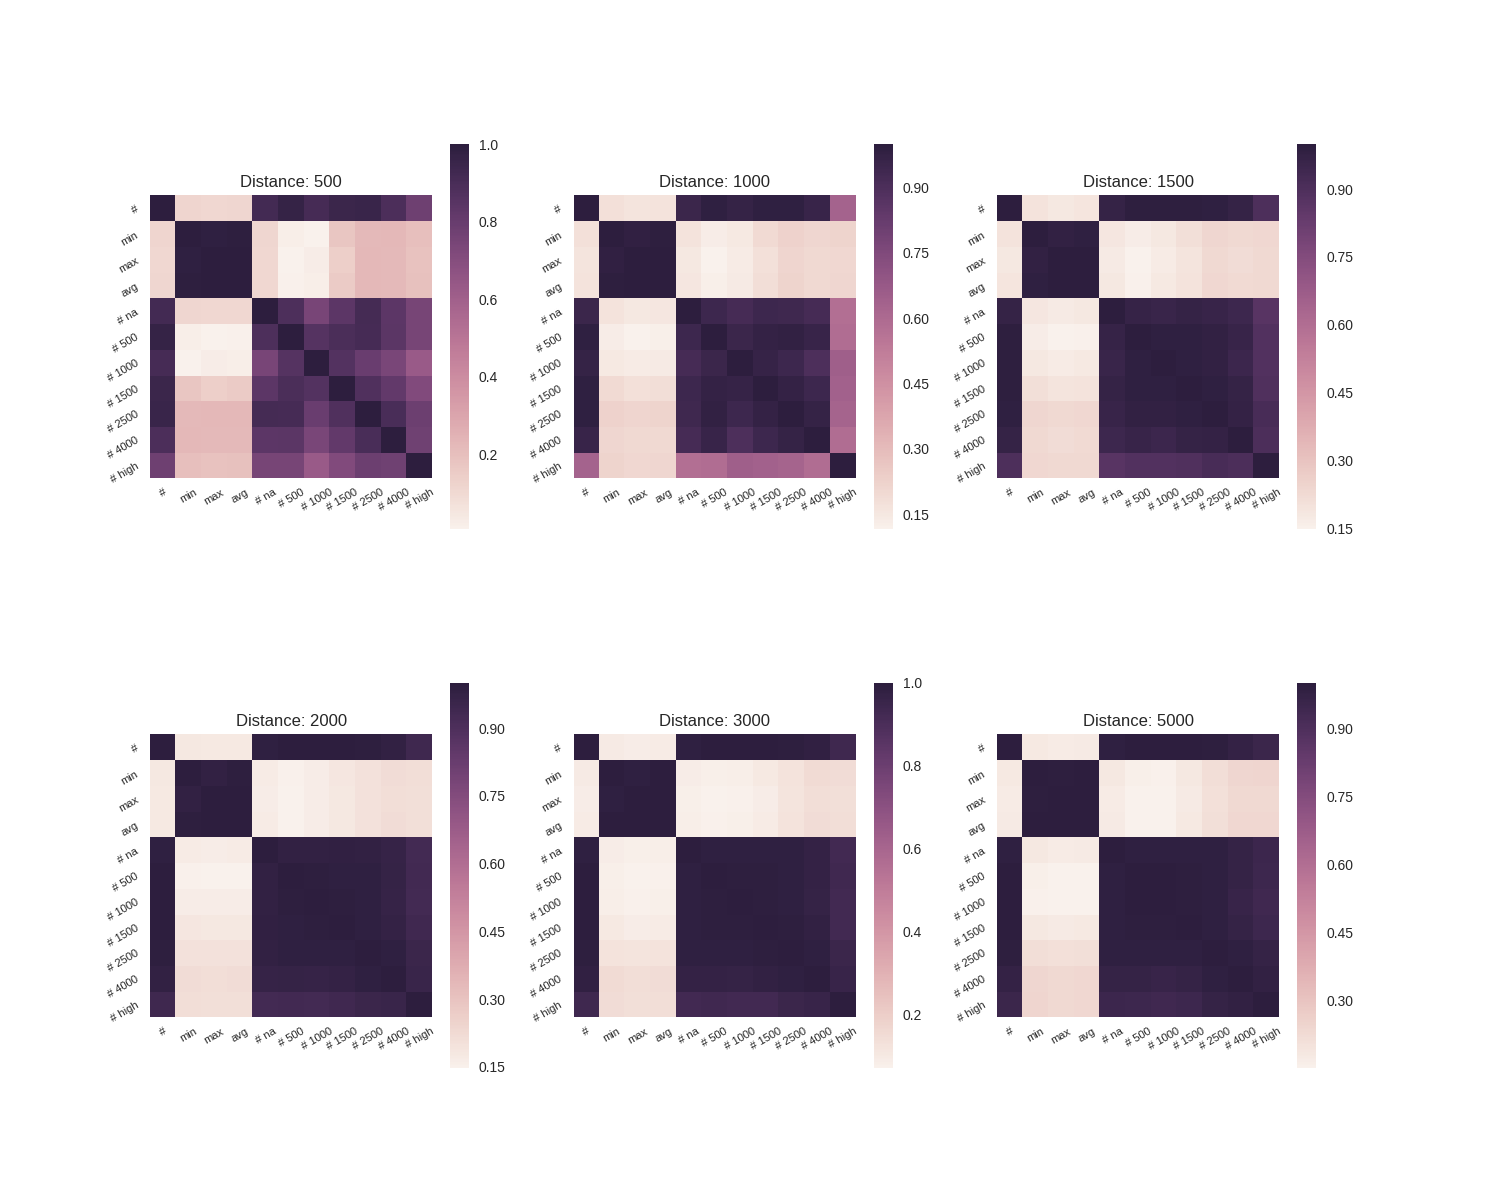
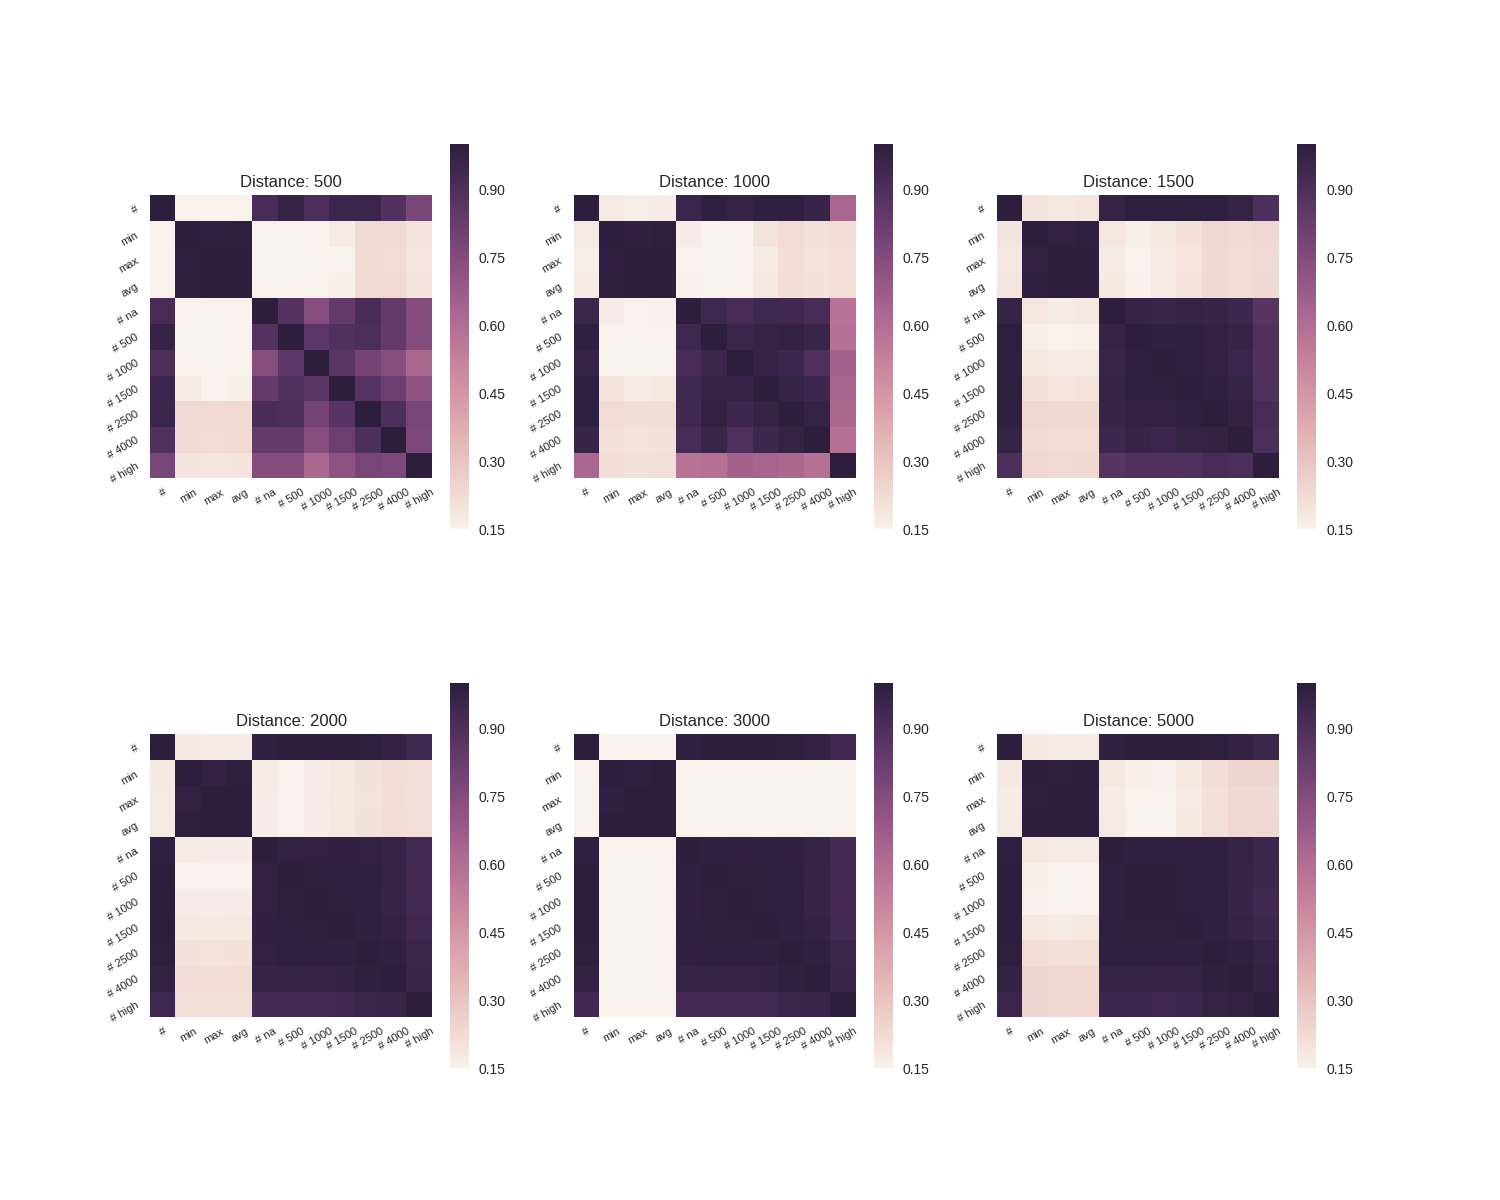
seperate the processing of feature name out to be an individual function and add some simple analysis on cafe features by seperating those counts and prices features

diff --git a/Analysis/cafe.py b/Analysis/cafe.py
@@ -2,6 +2,23 @@ import sys
 sys.path.append('../')
 from Common import *
 
+def process_feat_name(df):
+	labels = []
+	for feat in list(df.columns):
+		feat = feat.replace("count", "#")
+		feat = feat.split("_")
+		feat.remove(dist)
+		feat.remove("cafe")
+		if("sum" in feat):
+			feat.remove("sum")
+		if("min" in feat or "max" in feat):
+			feat.remove("avg")
+		if("price" in feat):
+			feat.remove("price")
+		feat = " ".join(feat)
+		labels.append(feat)
+	return labels
+
 hr = HouseReader()
 cafs = hr.df[hr.caf_feats].drop(['catering_km'], 1)
 
@@ -26,20 +43,7 @@ pos = 230
 plt.figure(figsize=(15,12))
 for item in caf_by_dist:
 	dist = item.columns[-1].split("_")[2]
-	labels = []
-	for feat in list(item.columns):
-		feat = feat.replace("count", "#")
-		feat = feat.split("_")
-		feat.remove(dist)
-		feat.remove("cafe")
-		if("sum" in feat):
-			feat.remove("sum")
-		if("min" in feat or "max" in feat):
-			feat.remove("avg")
-		if("price" in feat):
-			feat.remove("price")
-		feat = " ".join(feat)
-		labels.append(feat)
+	labels = process_feat_name(item)
 	pos += 1
 	plt.subplot(pos)
 	sns.heatmap(item.corr(), square=True, xticklabels=labels, yticklabels=labels, vmin=0.15)
@@ -55,3 +59,37 @@ plt.show()
 # 3. The correlation between the price statistics and cafe counts decreases as the distance increases.
 # 4. When the distance is 500, the price statistics are correlated to the counts of expensive cafe noticably, though not to a high level
 # Maybe we can consider those 500-distance data more important? We will learn more later
+
+pos = 230
+plt.figure(figsize=(15,12))
+for item in caf_by_dist:
+	df = pd.concat([item.iloc[:,4:], item.iloc[:,:1]], axis=1)
+	dist = item.columns[-1].split("_")[2]
+	labels = process_feat_name(df)
+	pos += 1
+	plt.subplot(pos)
+	sns.heatmap(df.corr(), square=True, xticklabels = labels, yticklabels=labels, vmin=0.6)
+	plt.xticks(rotation=30, fontsize=8)
+	plt.yticks(rotation=30, fontsize=8)
+	plt.title("Cafe counts by distance: %s" % dist)
+plt.subplots_adjust(left=0.1, right=0.9, wspace=0.2, hspace=0.4)
+plt.savefig("../Figure/Raw/Cafe/count_corr_each_dist.png")
+plt.show()
+
+pos = 230
+plt.figure(figsize=(15,12))
+for item in caf_by_dist:
+	df = item.iloc[:,1:4]
+	dist = item.columns[0].split("_")[-1]
+	labels = process_feat_name(df)
+	pos += 1
+	plt.subplot(pos)
+	sns.heatmap(df.corr(), square=True, xticklabels = labels, yticklabels=labels, vmin=0.98)
+	plt.xticks(rotation=30, fontsize=8)
+	plt.yticks(rotation=30, fontsize=8)
+	plt.title("Cafe avg bill by distance: %s" % dist)
+plt.subplots_adjust(left=0.1, right=0.9, wspace=0.2, hspace=0.4)
+plt.savefig("../Figure/Raw/Cafe/price_corr_each_dist.png")
+plt.show()
+# from the pictures we can see that, with the distance fixed, counts are very highly correlated, so do those price statistics
+# Maybe we can reconstruct all those cafe features to no more than 5 features, which will significantly save time and computational power for us
